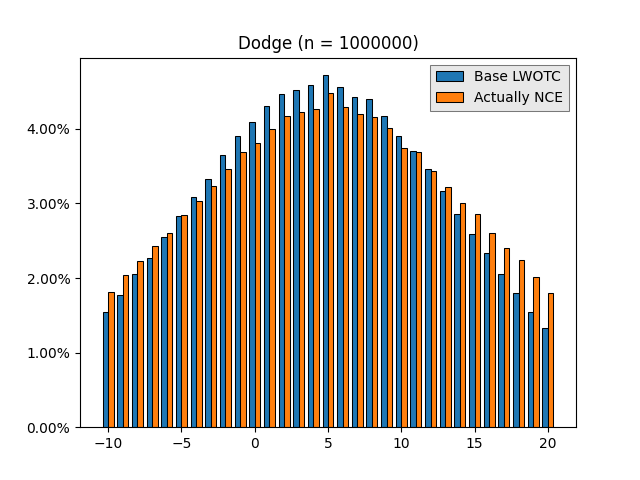
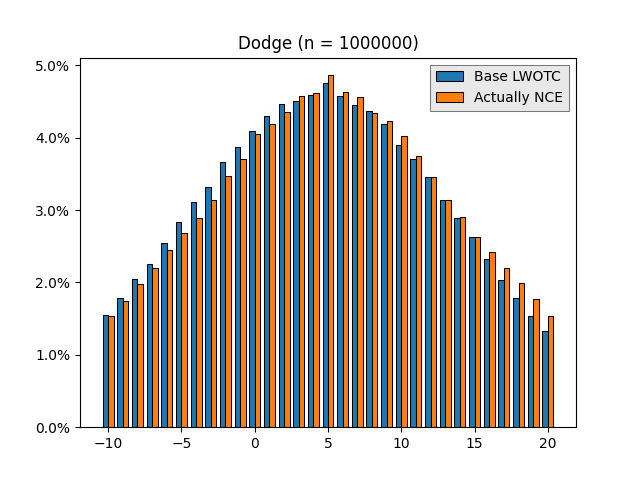
Add ANCEV3

diff --git a/soldier.py b/soldier.py
@@ -95,6 +95,44 @@ ANCEV2_SWAPS = (
     StatSwap("PsiOffense", 12, "PsiOffense", 0, 2.0),
 )
 
+ANCEV3_SWAPS = (
+    StatSwap("Offense", 1, "Offense", 0, 2.5),
+    StatSwap("Offense", 2, "Offense", 0, 2.0),
+    StatSwap("Offense", 3, "Offense", 0, 1.5),
+    StatSwap("Offense", 4, "Offense", 0, 1.0),
+    StatSwap("Offense", 5, "Offense", 0, 0.5),
+    StatSwap("Offense", 6, "Offense", 0, 0.5),
+    StatSwap("Mobility", 1, "Mobility", 0, 3.5),
+    StatSwap("HP", 1, "HP", 0, 4.0),
+    StatSwap("Will", 1, "Will", 0, 2.0),
+    StatSwap("Will", 2, "Will", 0, 2.0),
+    StatSwap("Will", 3, "Will", 0, 1.5),
+    StatSwap("Will", 4, "Will", 0, 1.5),
+    StatSwap("Will", 5, "Will", 0, 1.5),
+    StatSwap("Will", 6, "Will", 0, 1.0),
+    StatSwap("Will", 7, "Will", 0, 1.0),
+    StatSwap("Dodge", 1, "Dodge", 0, 2.5),
+    StatSwap("Dodge", 2, "Dodge", 0, 2.5),
+    StatSwap("Dodge", 3, "Dodge", 0, 1.5),
+    StatSwap("Dodge", 4, "Dodge", 0, 1.5),
+    StatSwap("Dodge", 5, "Dodge", 0, 1.5),
+    StatSwap("Dodge", 6, "Dodge", 0, 1.0),
+    StatSwap("Dodge", 7, "Dodge", 0, 1.0),
+    StatSwap("Hacking", 1, "Hacking", 0, 3.0),
+    StatSwap("Hacking", 2, "Hacking", 0, 1.0),
+    StatSwap("Hacking", 3, "Hacking", 0, 0.75),
+    StatSwap("Hacking", 4, "Hacking", 0, 0.5),
+    StatSwap("Hacking", 5, "Hacking", 0, 0.25),
+    StatSwap("PsiOffense", 1, "PsiOffense", 0, 1.5),
+    StatSwap("PsiOffense", 2, "PsiOffense", 0, 1.5),
+    StatSwap("PsiOffense", 3, "PsiOffense", 0, 2.0),
+    StatSwap("PsiOffense", 4, "PsiOffense", 0, 2.0),
+    StatSwap("PsiOffense", 5, "PsiOffense", 0, 2.0),
+    StatSwap("PsiOffense", 6, "PsiOffense", 0, 1.5),
+    StatSwap("PsiOffense", 7, "PsiOffense", 0, 1.5),
+    # StatSwap("PsiOffense", 12, "PsiOffense", 0, 2.0),
+)
+
 
 class EStat:  # Called that because that's what they're called internally in LWOTC
     def __init__(self, stat_range: Stat):
@@ -199,4 +237,5 @@ INITIALIZERS = {
     "lwotc": StatSwapper(5 * (4,), LWOTC_SWAPS),
     "ancev1": StatSwapper(8 * (8,), ANCEV1_SWAPS),
     "ancev2": StatSwapper(10 * (4,), ANCEV2_SWAPS),
+    "ancev3": StatSwapper(10 * (4,), ANCEV3_SWAPS),
 }

diff --git a/steam_workshop_images.py b/steam_workshop_images.py
@@ -32,7 +32,7 @@ MOB_RANGE = range(
 )
 
 INITIALIZER_1 = "lwotc"
-INITIALIZER_2 = "ancev2"
+INITIALIZER_2 = "ancev3"
 
 
 class FigSaver:
